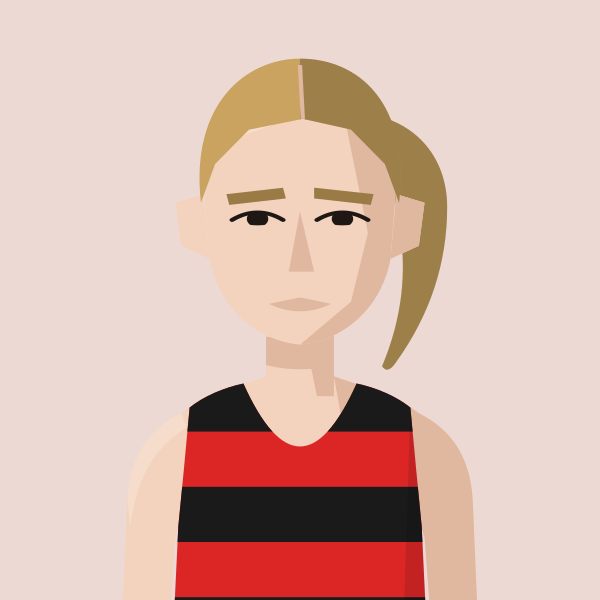
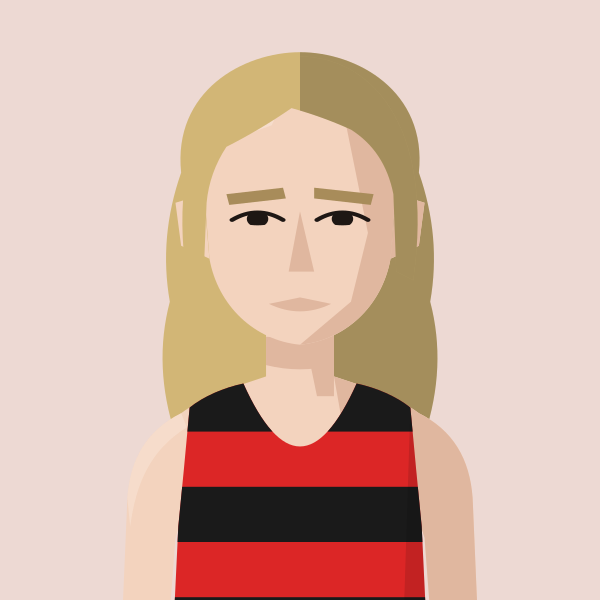
Lucy Jones (HHH): long loose blonde hair
Claude-Session: https://claude.ai/code/session_01MgmDWhFqnSSnP4iBLKXUZC

diff --git a/files/index.html b/files/index.html
@@ -577,7 +577,7 @@ add('kitty-shepherd-cross','BEL','Kitty Shepherd-Cross','Kitty Shepherd Cross');
 return m;})();
 // Athlete header figure: superstar portrait if we have one, else a grey runner in the club vest, else the plain vest icon
 // Changes whenever any portrait changes (set by tools/build_og.py), so browsers fetch fresh images instead of old cached ones
-const PORTRAIT_V='78cc9744';
+const PORTRAIT_V='46d27f35';
 const AthletePortrait=({name,club,w,fill,onClick})=>{const[failed,setFailed]=useState(false);const pk=PORTRAITS[normalizeNameForCompare(name).replace(/\s*\([^)]*\)$/,'')];const file=pk&&pk.club===club?pk.file:null;const src=file?`/portraits/athletes/${file}.svg?v=${PORTRAIT_V}`:PORTRAIT_CLUBS.has(club)?`/portraits/clubs/${club.replace(/\//g,'').replace(/&/g,'and')}.svg?v=${PORTRAIT_V}`:null;if(!src||failed)return<div onClick={onClick} className={onClick?'cursor-pointer':''}><ClubShield club={club} size={w}/></div>;const h=Math.round(w*148/126),ih=Math.round(w*1.4);if(fill)return<div onClick={onClick} className="cursor-pointer" style={{alignSelf:'stretch',minHeight:h,aspectRatio:'126 / 148',flexShrink:0,position:'relative',borderRadius:4,overflow:'hidden'}}><img src={src} alt={file?`Portrait of ${name.replace(/\s*\([^)]*\)$/,'')}`:`Runner in ${CLUBS[club]?.name||club} vest`} style={{position:'absolute',top:0,left:0,display:'block',width:'100%',height:'auto'}} onError={()=>setFailed(true)}/></div>;return<div style={{width:w,height:h,borderRadius:4,overflow:'hidden',flexShrink:0}}><img src={src} alt={file?`Portrait of ${name.replace(/\s*\([^)]*\)$/,'')}`:`Runner in ${CLUBS[club]?.name||club} vest`} width={w} height={ih} style={{display:'block',width:w,height:ih}} onError={()=>setFailed(true)}/></div>;};
 const getClubVestSvg=(club)=>{
   const p="M3 0 L6 0 Q7 4 10 5 Q13 4 14 0 L17 0 L17 20 L3 20 Z";

diff --git a/tools/gen_portraits.py b/tools/gen_portraits.py
@@ -121,6 +121,8 @@ HAIR["slicktail"] = '<path d="M66,104 C62,58 81,37 100,37 C120,37 138,58 134,104
 HAIR_BACK["slicktail"] = '<path d="M122,64 C138,66 146,78 146,90 Q151,98 145,106 Q150,116 141,124 Q138,130 134,128 Q137,120 133,112 Q136,102 131,94 Q130,80 122,72 Z"/>'
 HAIR["shaggyrecede"] = '<path d="M60,128 L57,116 L61,108 L56,98 L60,86 L58,74 L66,60 L72,52 L80,47 L86,38 L92,45 L98,34 L104,43 L112,36 L116,46 L124,49 L134,60 L142,74 L140,86 L144,98 L139,108 L143,116 L140,128 L134,124 L133,100 Q131,76 124,64 Q116,57 110,61 Q104,67 100,67 Q96,67 90,61 Q84,57 76,64 Q69,76 67,100 L66,124 Z"/>'
 HAIR_BACK["shaggyrecede"] = '<path d="M60,90 C58,56 80,40 100,40 C120,40 142,56 140,90 L146,104 L141,114 L147,124 L140,134 L144,144 L130,140 L70,140 L56,144 L60,134 L53,124 L59,114 L54,104 Z"/>'
+HAIR["longloose"] = '<path d="M60,140 C52,66 76,36 100,36 C124,36 148,66 140,140 L134,136 L133,100 Q130,80 118,70 Q108,64 97,60 Q86,70 74,78 Q68,90 67,104 L66,136 Z"/>'
+HAIR_BACK["longloose"] = '<path d="M58,90 C55,52 80,34 100,34 C120,34 145,52 142,90 Q150,120 146,150 Q152,180 144,212 L56,212 Q48,180 54,150 Q50,120 58,90 Z"/>'
 FACIAL = {
     "mostubble": '<path d="M66,112 L74,124 L84,146 L116,146 L126,124 L134,112 L134,180 L66,180 Z" opacity=".32"/><path d="M84,141 L100,137 L116,141 L117,150 L112,147 L100,144 L88,147 L83,150 Z"/>',
     "muttonchops": '<path d="M65,98 L70,98 L71,120 Q74,134 84,143 Q86,148 82,151 Q74,151 70,143 Q66,132 65,118 Z"/><path d="M135,98 L130,98 L129,120 Q126,134 116,143 Q114,148 118,151 Q126,151 130,143 Q134,132 135,118 Z"/>',
@@ -335,7 +337,7 @@ save("tat_none", figure("HOL", skin=2, hair="crop", hair_colour="mid brown"))
 save("tat_on", figure("HOL", skin=2, hair="crop", hair_colour="mid brown", tattoos=True))
 save("millar", figure("THH", skin=1, hair="shortcurls", hair_colour="mid brown", mud=True))
 save("millar_grey", figure("THH", "grey"))
-save("lucy", figure("HHH", skin=1, hair="ponytail", hair_colour="blonde"))
+save("lucy", figure("HHH", skin=1, hair="longloose", hair_colour="#D2B676", brow_colour="#A88C5A"))
 save("alex", figure("H/W", skin=1, hair="quiff", hair_colour="mid brown"))
 save("lucy_grey", figure("HHH", "grey"))
 save("josh", figure("BEL", skin=1, hair="topknot", hair_colour="light brown", facial="beard"))
